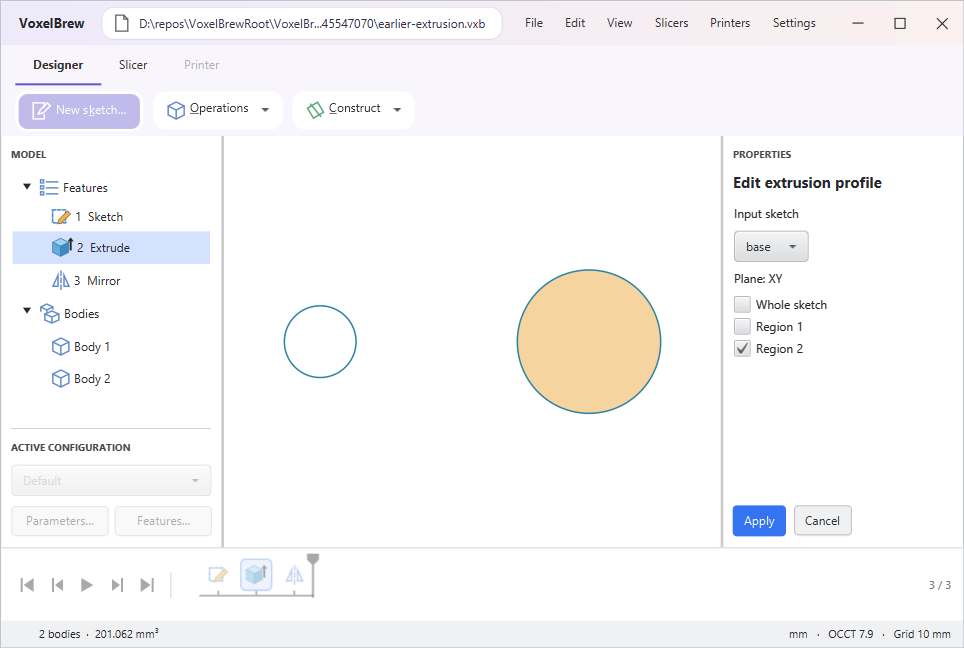
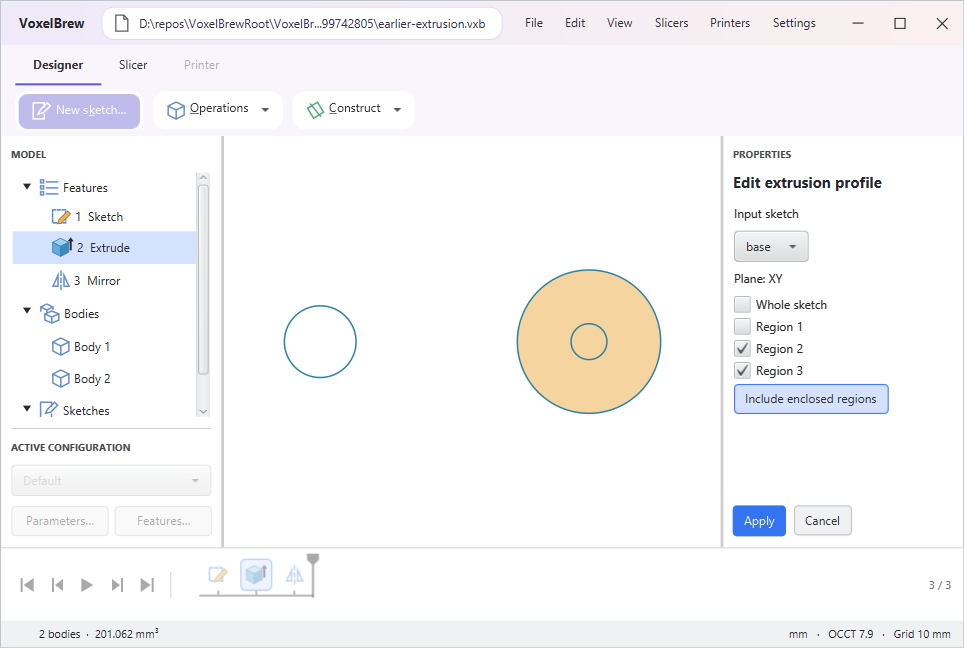
fix: isolate adjacent extrusion regions and fill enclosed profiles

diff --git a/engine/src/main/java/dev/voxelbrew/engine/sketch/SketchProfiles.java b/engine/src/main/java/dev/voxelbrew/engine/sketch/SketchProfiles.java
@@ -35,6 +35,9 @@ public final class SketchProfiles {
     }
 
     private static int[] enclosingLoops(List<List<Edge>> loops, List<List<Vec>> polygons, double[] areas) {
+        var boundaries = loops.stream()
+                .map(loop -> loop.stream().map(Edge::entity).collect(java.util.stream.Collectors.toSet()))
+                .toList();
         int[] parent = new int[loops.size()];
         Arrays.fill(parent, -1);
         for (int i = 0; i < loops.size(); i++) {
@@ -45,6 +48,7 @@ public final class SketchProfiles {
             for (int j = 0; j < loops.size(); j++) {
                 if (Math.abs(areas[j]) > Math.abs(areas[i])
                         && Math.abs(areas[j]) < size
+                        && Collections.disjoint(boundaries.get(i), boundaries.get(j))
                         && inside(loops.get(i).getFirst().start(), polygons.get(j))) {
                     parent[i] = j;
                     size = Math.abs(areas[j]);
@@ -61,6 +65,27 @@ public final class SketchProfiles {
     /** Individual bounded faces, including faces separated by a shared sketch edge. */
     public static List<Region> selectableRegions(SketchGeometry g) {
         return regions(g, true);
+    }
+
+    /** Include all nested faces of the selection, so their shared contours cancel during extrusion. */
+    public static Set<String> includingEnclosedRegions(SketchGeometry geometry, Collection<String> selected) {
+        var loops = profileLoops(geometry, true);
+        var polygons = loops.stream().map(SketchProfiles::samples).toList();
+        var parents = enclosingLoops(
+                loops,
+                polygons,
+                polygons.stream().mapToDouble(SketchProfiles::area).toArray());
+        var ids = loops.stream().map(SketchProfiles::regionId).toList();
+        var result = new HashSet<>(selected);
+        for (int i = 0; i < parents.length; i++) {
+            for (int parent = parents[i]; parent >= 0; parent = parents[parent]) {
+                if (result.contains(ids.get(parent))) {
+                    result.add(ids.get(i));
+                    break;
+                }
+            }
+        }
+        return Set.copyOf(result);
     }
 
     /** Pick the innermost bounded face at a point in sketch coordinates. */

diff --git a/gui/src/test/e2eTest/java/dev/voxelbrew/gui/WorkbenchUiTest.java b/gui/src/test/e2eTest/java/dev/voxelbrew/gui/WorkbenchUiTest.java
@@ -3081,8 +3081,9 @@ class WorkbenchUiTest {
     void editsAnEarlierExtrusionProfileAndRebuildsItsDependents() throws Exception {
         var entities = List.of(
                 Sketches.entity("small", SketchGeometry.Kind.CIRCLE, false, 0, 0, 2),
-                Sketches.entity("large", SketchGeometry.Kind.CIRCLE, false, 15, 0, 4));
-        var geometry = new SketchGeometry(entities, List.of(), List.of("small", "large"));
+                Sketches.entity("large", SketchGeometry.Kind.CIRCLE, false, 15, 0, 4),
+                Sketches.entity("center", SketchGeometry.Kind.CIRCLE, false, 15, 0, 1));
+        var geometry = new SketchGeometry(entities, List.of(), List.of("small", "large", "center"));
         var sketch =
                 new Feature.Sketch("base", "profile", Feature.Plane.origin("XY"), new Feature.Constrained(geometry));
         var small = dev.voxelbrew.engine.sketch.SketchProfiles.regionAt(geometry, new SketchGeometry.Vec(0, 0))
@@ -3100,7 +3101,7 @@ class WorkbenchUiTest {
                         .getRoot()
                         .lookupAll(".sketch-curves")
                         .size()))
-                .isEqualTo(2);
+                .isEqualTo(3);
         fx(() -> {
             workbench.viewport().standardView("Front");
             return null;
@@ -3110,7 +3111,8 @@ class WorkbenchUiTest {
         assertThat(fx(() -> ((CheckBox) node("#extrude-whole")).isSelected())).isFalse();
         modelClick(0, 0, 0);
         assertThat(fx(() -> node("#apply-extrusion-profile").isDisabled())).isTrue();
-        modelClick(15, 0, 0);
+        modelClick(18, 0, 0);
+        click("extrude-include-enclosed");
         fx(() -> {
             var view = workbench.viewport();
             var p = view.screenToLocal(view.modelToScreen(new Point3D(2, 0, 0)));

diff --git a/engine/src/test/integrationTest/java/dev/voxelbrew/engine/geometry/SharedEdgeProfileTest.java b/engine/src/test/integrationTest/java/dev/voxelbrew/engine/geometry/SharedEdgeProfileTest.java
@@ -25,6 +25,29 @@ class SharedEdgeProfileTest {
     }
 
     @Test
+    void adjacentStripStartingOnSharedEdgeIsNotAHole() {
+        var g = geometry(List.of(
+                Sketches.entity("strip-bottom", Kind.LINE, false, -1e-15, 1e-15, 5, 0),
+                Sketches.entity("panel-bottom", Kind.LINE, false, 0, 0, -50, 0),
+                Sketches.entity("divider", Kind.LINE, false, 0, 0, 0, 46),
+                Sketches.entity("panel-left", Kind.LINE, false, -50, 0, -50, 7),
+                Sketches.entity("panel-top", Kind.LINE, false, -50, 7, 0, 7),
+                Sketches.entity("strip-right", Kind.LINE, false, 5, 0, 5, 46),
+                Sketches.entity("strip-top", Kind.LINE, false, 5, 46, 0, 46)));
+        var panel = SketchProfiles.regionAt(g, new Vec(-25, 3)).orElseThrow();
+        assertThat(SketchProfiles.regionContours(g).get(panel)).hasSize(1);
+        var region = SketchProfiles.selectableRegions(g).stream()
+                .filter(r -> r.id().equals(panel))
+                .findFirst()
+                .orElseThrow();
+        try (var solid = Solid.profilePrism(region.profile(), 0, 5)) {
+            assertThat(solid.volume()).isCloseTo(1750, within(1e-6));
+            assertThat(solid.contains(-25, 3, 2)).isTrue();
+            assertThat(solid.contains(2, 3, 2)).isFalse();
+        }
+    }
+
+    @Test
     void individualFacesKeepSharedEdgeAndStableReferences() throws Exception {
         var original = SketchProfiles.selectableRegions(geometry(house()));
         assertThat(original.size()).isEqualTo(2);

diff --git a/gui/src/main/java/dev/voxelbrew/gui/Workbench.java b/gui/src/main/java/dev/voxelbrew/gui/Workbench.java
@@ -2042,6 +2042,22 @@ public final class Workbench extends BorderPane implements AutoCloseable {
                 } else {
                     container.getChildren().add(choices);
                 }
+                var include = new Button(translations.translate("extrude.includeEnclosed"));
+                include.setId("extrude-include-enclosed");
+                include.disableProperty().bind(whole.selectedProperty());
+                include.setOnAction(event -> {
+                    var selection = new ProfileChoices(whole, regions);
+                    var filled =
+                            SketchProfiles.includingEnclosedRegions(constrained.geometry(), selection.selectedIds());
+                    var additional = regions.entrySet().stream()
+                            .filter(e -> !e.getKey().isSelected() && filled.contains(e.getValue()))
+                            .map(Map.Entry::getKey)
+                            .toList();
+                    if (additional.isEmpty()) return;
+                    additional.subList(1, additional.size()).forEach(box -> box.setSelected(true));
+                    additional.getFirst().fire();
+                });
+                container.getChildren().add(include);
                 viewport.pickExtrusionRegion(
                         sketch.plane(),
                         point -> SketchProfiles.regionAt(

diff --git a/engine/src/test/integrationTest/java/dev/voxelbrew/engine/geometry/SketchCurveTypesIntegrationTest.java b/engine/src/test/integrationTest/java/dev/voxelbrew/engine/geometry/SketchCurveTypesIntegrationTest.java
@@ -157,7 +157,7 @@ class SketchCurveTypesIntegrationTest {
         var selections = List.of(
                 strokes.stream().map(SketchProfiles.Region::id).toList(),
                 cutout,
-                faces.stream().map(SketchProfiles.Region::id).toList());
+                List.copyOf(SketchProfiles.includingEnclosedRegions(combined, List.of(frame))));
         var volumes = List.of(textVolume, 4800 - textVolume, 4800.0);
         var bodies = List.of(2, 4, 1);
         for (int i = 0; i < selections.size(); i++) {
